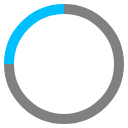
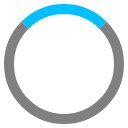
update loading circle animiation

Changed region(s): [[0.0312, 0.1562, 0.2188, 0.5], [0.5, 0.0312, 0.8438, 0.2188]]

diff --git a/Extension/popup.html b/Extension/popup.html
@@ -4,8 +4,30 @@
     <meta charset="utf-8" />
     <meta name="author" content="jspenguin2017" />
     <title>Inline Install Blocker</title>
+    <style>
+        body {
+            width: 250px;
+            height: 400px;
+            text-align: center;
+        }
+
+        @keyframes rotate {
+            from {
+                transform: rotate(0deg);
+            }
+
+            to {
+                transform: rotate(360deg);
+            }
+        }
+
+        #loading {
+            margin-top: 30px;
+            animation: rotate 1.3s cubic-bezier(0.7, 0.3, 0.3, 0.7) infinite;
+        }
+    </style>
 </head>
 <body>
-
+    <img id="loading" src="loading.png" alt="loading" />
 </body>
 </html>

diff --git a/Icon Generator.html b/Icon Generator.html
@@ -262,13 +262,13 @@
 
                 //Gray part
                 context.beginPath();
-                context.arc(64, 64, 55, 1.5 * Math.PI, 3 * Math.PI);
+                context.arc(64, 64, 55, 1.75 * Math.PI, 3.25 * Math.PI);
                 context.strokeStyle = "gray";
                 context.stroke();
 
                 //Blue part
                 context.beginPath();
-                context.arc(64, 64, 55, 1 * Math.PI, 1.5 * Math.PI);
+                context.arc(64, 64, 55, 1.25 * Math.PI, 1.75 * Math.PI);
                 context.strokeStyle = "deepskyblue";
                 context.stroke();
 
